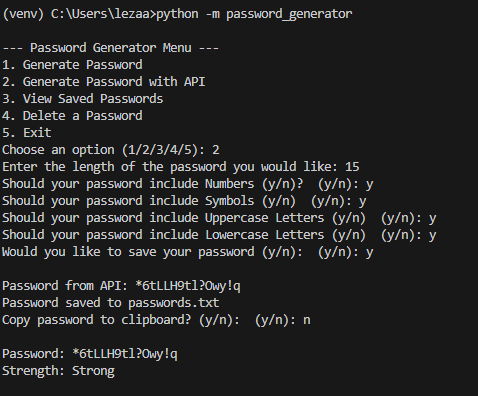
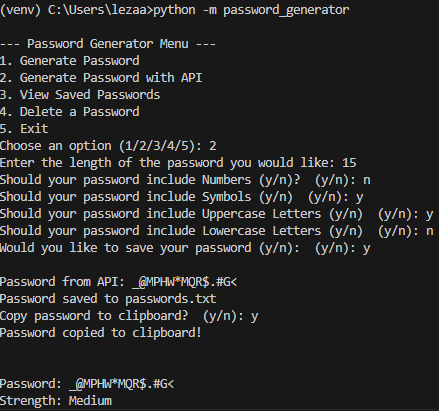
fixed up image and removed the (y/n) from clipboard code in controller

Changed region(s): [[0.0, 0.0909, 1.0, 0.8485], [0.0, 0.0, 0.7995, 0.0606], [0.0, 0.8788, 0.4146, 1.0]]

diff --git a/controller.py b/controller.py
@@ -15,7 +15,7 @@ def handle_generate():
     #showing password and strength after generated
     view.show_password_strength(password, strength)
 
-    if view.prompt_yes_no("Copy password to clipboard? (y/n): "):
+    if view.prompt_yes_no("Copy password to clipboard? "):
         view.copy_to_clipboard(password)
 
     if save:
@@ -52,7 +52,7 @@ def api_generate():
         model.save_password(password)
         view.display_message("Password saved to passwords.txt")
 
-    if view.prompt_yes_no("Copy password to clipboard? (y/n): "):
+    if view.prompt_yes_no("Copy password to clipboard? "):
         view.copy_to_clipboard(password)
 
     strength = model.password_strength(password)
